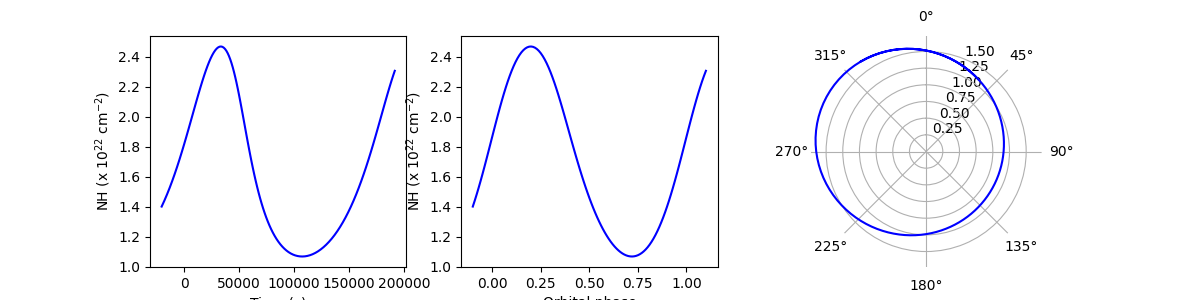
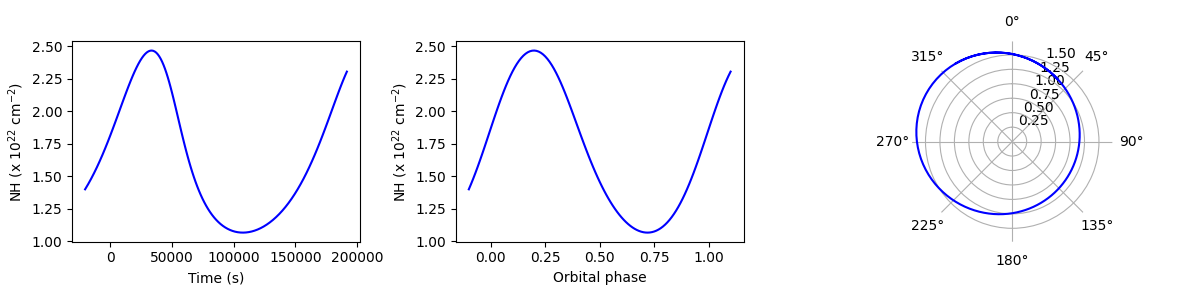
paper

diff --git a/xraybinaryorbit/theoretical/density_related.py b/xraybinaryorbit/theoretical/density_related.py
@@ -235,7 +235,7 @@ def absorption_column_through_orbit_theoretical(resolution=0.01, show_plot=True,
         #ax3.set_rlabel_position(90)
  
 
-        #plt.tight_layout()
+        plt.tight_layout()
         
         plt.savefig("NH_through_the_orbit.png")
     #...................................................

diff --git a/paper/paper.md b/paper/paper.md
@@ -96,11 +96,11 @@ where r is the orbital radius, $\omega$ is angular velocity, $\i$ is inclination
 
 # Examples of Package Performance
 
-![Reconstructed trajectory of Fe xxv emitting plasma for Cen X-3, deduced by the observed Doppler shifts of the emission line center.](trajectory_and_shifts.png){#sylt width="100%"}
+![Reconstructed trajectory of Fe XXV emitting plasma in Cen X-3, derived from the observed Doppler shifts of the emission line center.](trajectory_and_shifts.png){#sylt width="100%"}
 
-![Ionization map of the stellar wind on the orbital plane for 4U 0114+65 for the different luminosities observed.](new_iopn_map.png){#sylt width="100%"}
+![Ionization map of the stellar wind in the orbital plane of 4U 0114+65, showing variations in different observed luminosities.](new_iopn_map.png){#sylt width="100%"}
 
-![Theoretical local absoprption column for a hipothetical system.](NH_through_the_orbit.png){#sylt width="100%"}
+![Theoretical local absorption column for a hypothetical system, as calculated through the orbit.](NH_through_the_orbit.png){#sylt width="100%"}
 
 
 # Acknowledgements
